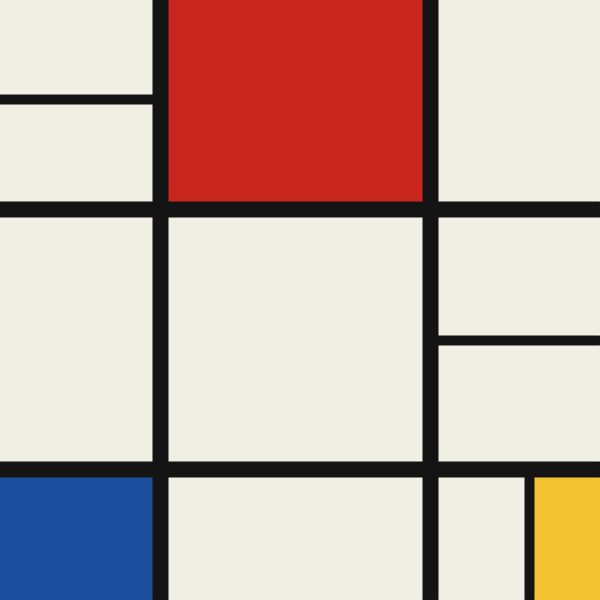
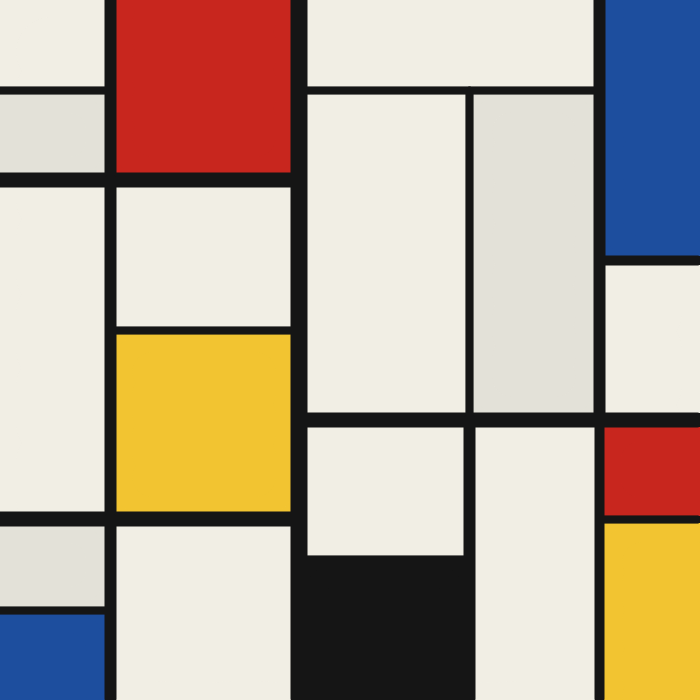
Repaint the Mondrian challenge as a more complex composition
18 rectangles from a recursive split, four line weights, two tones of white, painted
with the outside-in coverage so every block edge is clean. The challenges table names
the artist each one is inspired by.

diff --git a/challenges/01_mondrian.py b/challenges/01_mondrian.py
@@ -1,35 +1,70 @@
-"""Challenge 1: a composition in Mondrian's style. Tests straight lines and even brush coverage."""
+"""Challenge 1: a composition in the style of Piet Mondrian. Tests straight lines and clean,
+even brush coverage."""
 import os
 
 from brushlib import canvas, cover, line, save
 from record import recording
 
 HERE = os.path.dirname(os.path.abspath(__file__))
-S = 600
-WHITE, RED, BLUE, YELLOW, BLACK = "#F1EEE4", "#C8261E", "#1D4E9E", "#F2C431", "#141414"
+S = 700
+WHITE, GREY_WHITE = "#F1EEE4", "#E3E1D8"
+RED, BLUE, YELLOW, BLACK = "#C8261E", "#1D4E9E", "#F2C431", "#151515"
+
+# The canvas is split recursively, like Mondrian's grids: (axis, at, line width, first, second).
+# Leaves are colors. Every line spans exactly its parent rectangle, so lines always meet cleanly.
+LAYOUT = ("x", 300, 18,
+          ("y", 180, 16,
+           ("x", 110, 12, ("y", 90, 8, WHITE, GREY_WHITE), RED),
+           ("y", 520, 16,
+            ("x", 110, 12, WHITE, ("y", 330, 8, WHITE, YELLOW)),
+            ("x", 110, 12, ("y", 610, 8, GREY_WHITE, BLUE), WHITE))),
+          ("y", 420, 16,
+           ("x", 600, 12,
+            ("y", 90, 8, WHITE, ("x", 470, 8, WHITE, GREY_WHITE)),
+            ("y", 260, 10, BLUE, WHITE)),
+           ("x", 470, 12,
+            ("y", 560, 8, WHITE, BLACK),
+            ("x", 600, 10, WHITE, ("y", 520, 8, RED, YELLOW)))))
 
 
-def block(x0, y0, x1, y1, c, size=34):
-    cover([(x0, y0), (x1, y0), (x1, y1), (x0, y1)], c, size, smooth_poly=False, wobble=0.4)
+def walk(node, x0, y0, x1, y1, blocks, lines):
+    """Collect leaf rectangles and split lines (with their depth-ordered widths)."""
+    if isinstance(node, str):
+        blocks.append((x0, y0, x1, y1, node))
+        return
+    axis, at, width, first, second = node
+    if axis == "x":
+        lines.append((width, (at, y0), (at, y1)))
+        walk(first, x0, y0, at, y1, blocks, lines)
+        walk(second, at, y0, x1, y1, blocks, lines)
+    else:
+        lines.append((width, (x0, at), (x1, at)))
+        walk(first, x0, y0, x1, at, blocks, lines)
+        walk(second, x0, at, x1, y1, blocks, lines)
 
+
+def past_edge(v):
+    """Rectangles touching the canvas edge run past it, so the brush leaves no rim there."""
+    return -40 if v <= 0 else S + 40 if v >= S else v
+
+
+blocks, lines = [], []
+walk(LAYOUT, 0, 0, S, S, blocks, lines)
 
 canvas(S, S)
 with recording(os.path.join(HERE, "01_mondrian.gif")):
-    # off-white ground, laid in broad horizontal strokes
-    block(-30, -30, S + 30, S + 30, WHITE, size=60)  # past the edges: brush runs off the canvas
+    # warm white ground in broad strokes
+    cover([(-40, -40), (S + 40, -40), (S + 40, S + 40), (-40, S + 40)], WHITE, 70, smooth_poly=False, wobble=0.5)
 
-    # primary blocks, each bounded by line centers so the black lines cover the seams
-    block(160, -30, 430, 210, RED)
-    block(-30, 470, 160, S + 30, BLUE)
-    block(530, 470, S + 30, S + 30, YELLOW, size=24)
-    block(430, 340, S + 30, 470, WHITE, size=30)  # second coat: whites in Mondrian are layered too
+    # color blocks, grouped by color (each color change opens Paint's dialog)
+    for c in (GREY_WHITE, RED, BLUE, YELLOW, BLACK):
+        for x0, y0, x1, y1, fill in blocks:
+            if fill == c:
+                x0, y0, x1, y1 = map(past_edge, (x0, y0, x1, y1))
+                size = max(10, min(40, round(min(x1 - x0, y1 - y0) / 3)))
+                cover([(x0, y0), (x1, y0), (x1, y1), (x0, y1)], c, size, smooth_poly=False, wobble=0.4)
 
-    # black lines, thickest first
-    line(BLACK, 16, (160, 0), (160, S - 1))
-    line(BLACK, 16, (430, 0), (430, S - 1))
-    line(BLACK, 16, (0, 210), (S - 1, 210))
-    line(BLACK, 16, (0, 470), (S - 1, 470))
-    line(BLACK, 10, (430, 340), (S - 1, 340))
-    line(BLACK, 10, (530, 470), (530, S - 1))
-    line(BLACK, 10, (0, 100), (160, 100))
+    # black lines, thickest first, so thinner lines end inside the thicker ones they meet
+    for width, a, b in sorted(lines, key=lambda l: -l[0]):
+        line(BLACK, width, tuple(map(past_edge, a)), tuple(map(past_edge, b)))
 save(os.path.join(HERE, "01_mondrian.png"))

diff --git a/README.md b/README.md
@@ -30,15 +30,17 @@ claude mcp add ms-paint -- uv run --directory C:\path\to\ms-paint-mcp python -W 
 
 A fun way to push the server: paint a famous work in the style of each artist, with brush strokes only, easiest first. Each challenge is a script in [`challenges/`](challenges) that paints in Paint and saves the painting plus a sped-up GIF of the whole Paint window next to it (`uv run challenges/01_mondrian.py`). What each one teaches goes into [LESSONS.md](LESSONS.md).
 
-| # | Painting | What it tests | Status |
-|---|----------|---------------|--------|
-| 1 | Mondrian | Straight lines and even brush coverage | Done: [painting](challenges/01_mondrian.png), [GIF](challenges/01_mondrian.gif) |
-| 2 | The Great Wave | Curves and shape boundaries | To do |
-| 3 | The Starry Night | Brush texture and layering | To do |
-| 4 | Impression, Sunrise | Blending and color transitions | To do |
-| 5 | The Scream | Composition and expressive strokes | To do |
-| 6 | Girl with a Pearl Earring | Portrait accuracy | To do |
-| 7 | The Birth of Venus | Full-scene complexity | To do |
+| # | Painting | Inspired by | What it tests | Status |
+|---|----------|-------------|---------------|--------|
+| 1 | Composition with Red, Blue and Yellow | Piet Mondrian | Straight lines and even brush coverage | Done: [painting](challenges/01_mondrian.png), [GIF](challenges/01_mondrian.gif) |
+| 2 | The Great Wave | Katsushika Hokusai | Curves and shape boundaries | To do |
+| 3 | The Starry Night | Vincent van Gogh | Brush texture and layering | To do |
+| 4 | Impression, Sunrise | Claude Monet | Blending and color transitions | To do |
+| 5 | The Scream | Edvard Munch | Composition and expressive strokes | To do |
+| 6 | Girl with a Pearl Earring | Johannes Vermeer | Portrait accuracy | To do |
+| 7 | The Birth of Venus | Sandro Botticelli | Full-scene complexity | To do |
+
+Each one is an original painting in the artist's style, not a copy.
 
 ## Gallery
 
